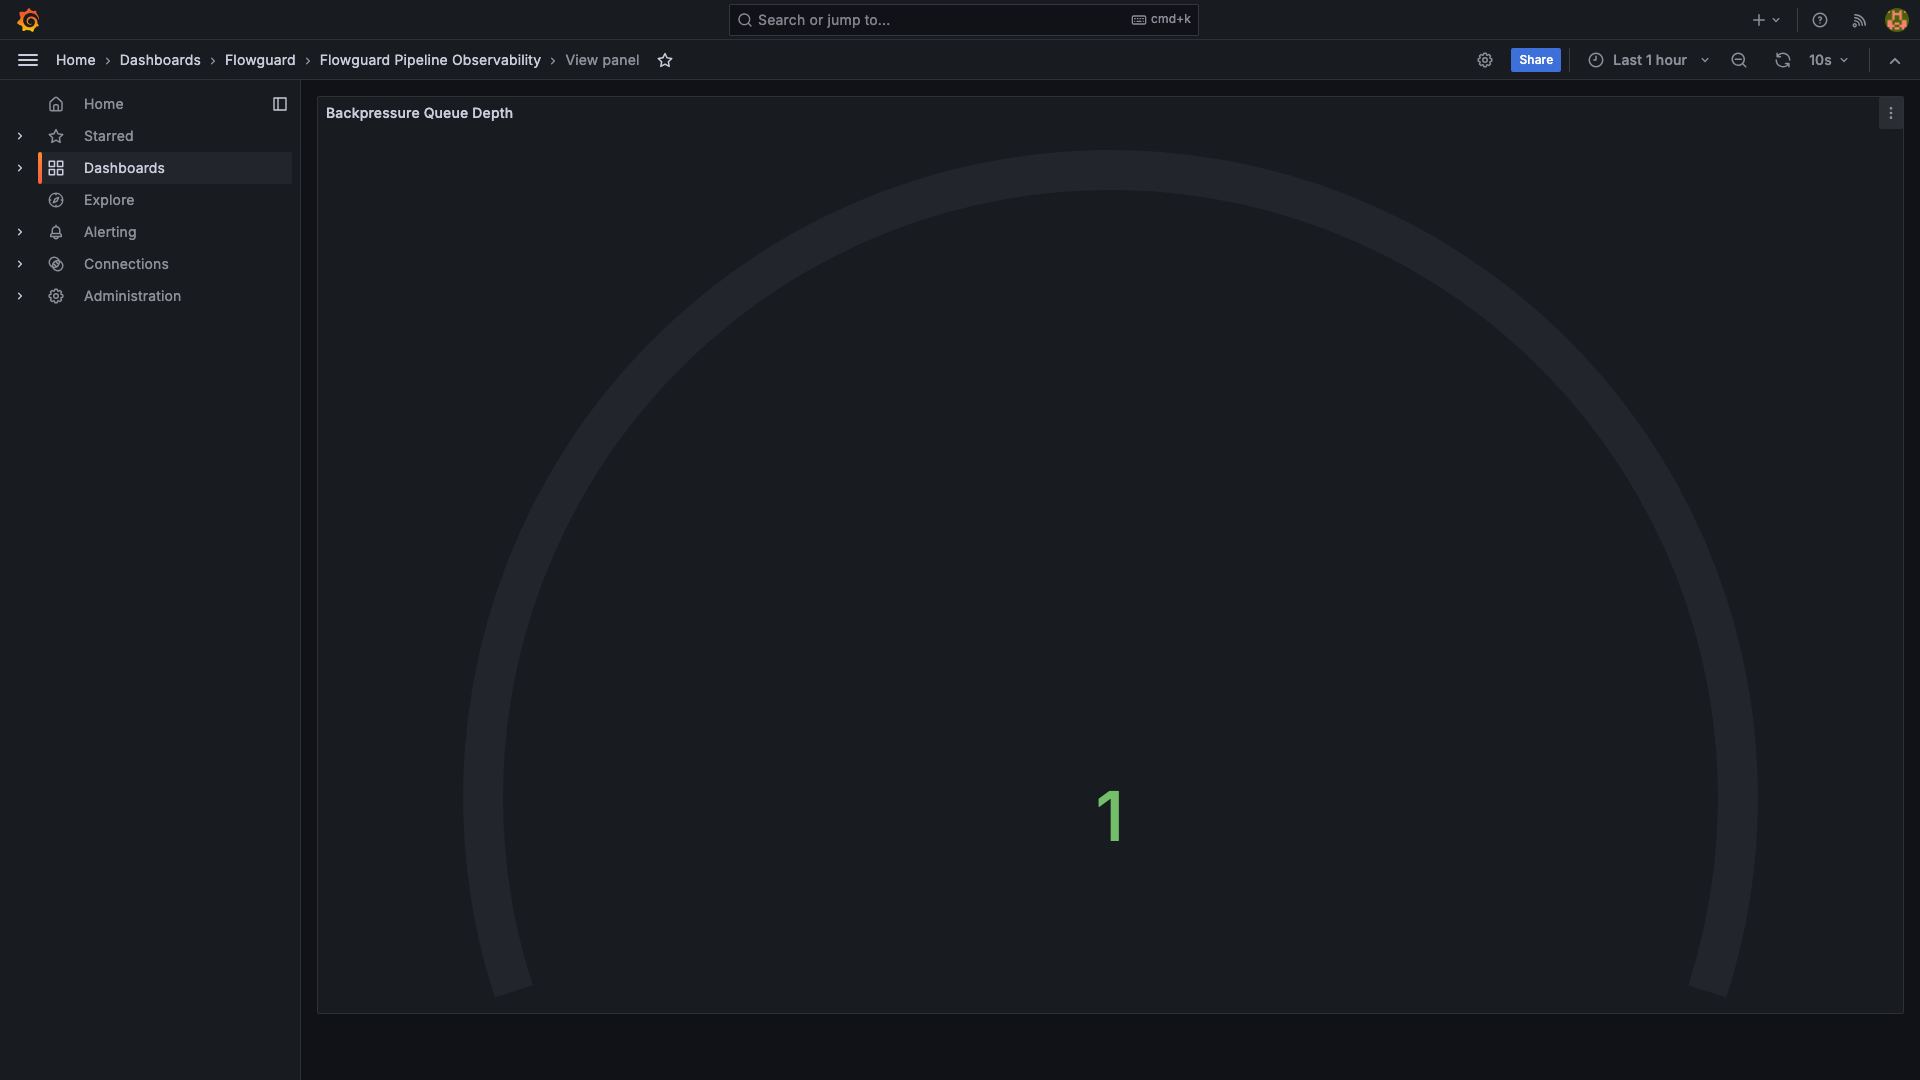
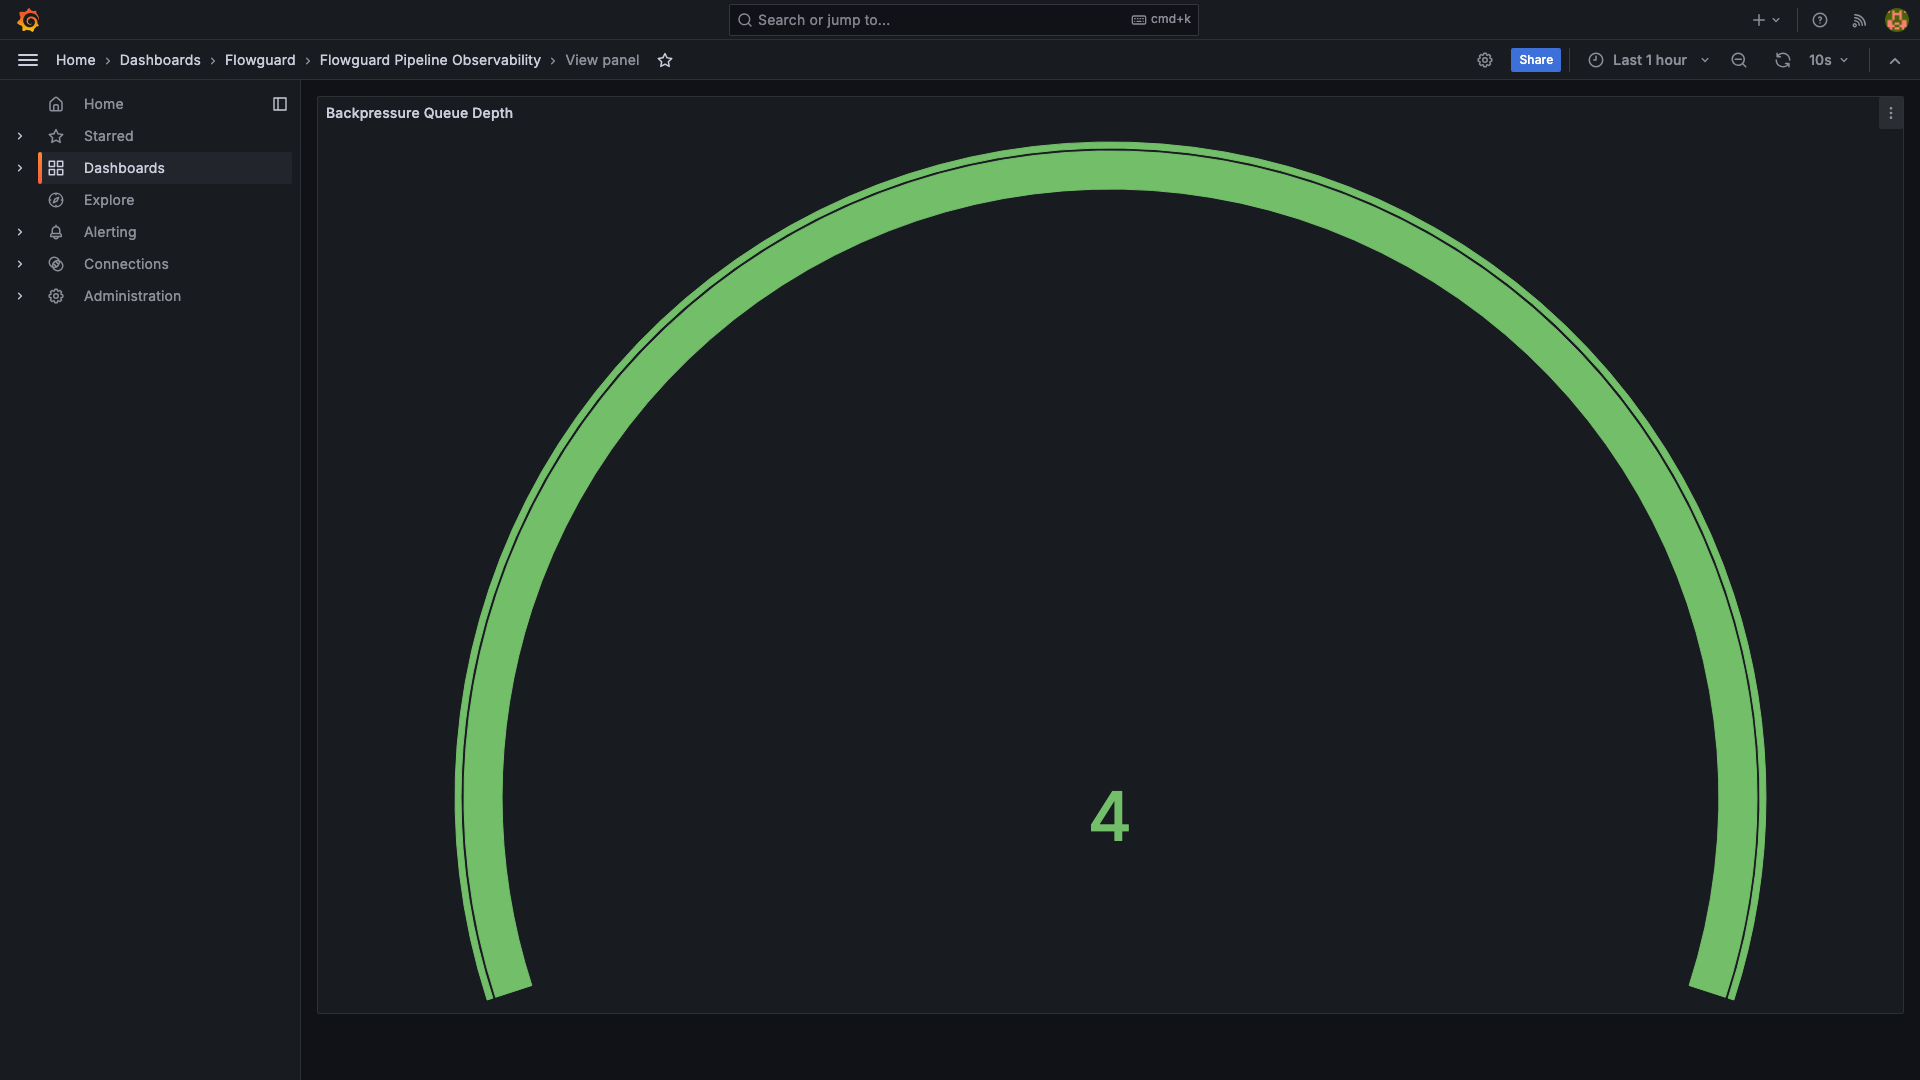
Fixed

Changed region(s): [[0.2188, 0.1222, 0.9375, 0.9167], [0.5625, 0.7333, 0.5938, 0.7944]]

diff --git a/internal/consumer/consumer.go b/internal/consumer/consumer.go
@@ -53,6 +53,12 @@ type Config struct {
 	// DeadLetterTopic is the topic to send dead-letter messages to.
 	// When empty, messages are stored in-memory in the dead-letter queue.
 	DeadLetterTopic string
+	// MaxConcurrency is the maximum number of messages processed
+	// simultaneously. When > 1, the consumer fetches and queues messages
+	// concurrently, which is what makes backpressure observable: the
+	// in-flight queue depth grows when the producer outruns the handler.
+	// When 0 or 1, processing is serial (no in-flight queue).
+	MaxConcurrency int
 }
 
 // Consumer reads messages from Kafka and processes them with resilience.
@@ -63,6 +69,12 @@ type Consumer struct {
 	dlq         *resilience.DeadLetterQueue
 	backpressure *resilience.BackpressureController
 	metrics     *observability.Metrics
+
+	// maxConcurrency caps the number of messages processed simultaneously.
+	// Messages beyond this limit are queued in the Kafka consumer's internal
+	// buffer; if that fills, the broker stops fetching (natural backpressure).
+	// When set to 0 or 1, processing is serial (no in-flight queue).
+	maxConcurrency int
 
 	mu      sync.Mutex
 	running bool
@@ -82,8 +94,9 @@ func NewConsumerWithMetrics(cfg Config, handler Handler, metrics *observability.
 	}
 
 	c := &Consumer{
-		kafka:   kc,
-		handler: handler,
+		kafka:          kc,
+		handler:        handler,
+		maxConcurrency: cfg.MaxConcurrency,
 		breaker: resilience.NewCircuitBreaker(
 			cfg.CircuitBreakerThreshold,
 			cfg.CircuitBreakerCooldown,
@@ -110,6 +123,11 @@ func NewConsumerWithMetrics(cfg Config, handler Handler, metrics *observability.
 //
 // This method blocks until the context is cancelled or the consumer is
 // closed. It is safe to call Run concurrently with other goroutines.
+//
+// When MaxConcurrency > 1, messages are dispatched to a bounded pool of
+// worker goroutines. The pool's buffered channel acts as the in-flight
+// queue: when it fills, the consumer stops fetching from Kafka, which is
+// the mechanism by which backpressure pauses intake.
 func (c *Consumer) Run(ctx context.Context) error {
 	c.mu.Lock()
 	if c.running {
@@ -125,17 +143,62 @@ func (c *Consumer) Run(ctx context.Context) error {
 		c.mu.Unlock()
 	}()
 
+	concurrency := c.maxConcurrency
+	if concurrency <= 0 {
+		concurrency = 1
+	}
+
+	if concurrency == 1 {
+		// Serial path — no in-flight queue, backpressure depth stays near 0.
+		for {
+			select {
+			case <-ctx.Done():
+				return ctx.Err()
+			case msg, ok := <-c.kafka.Messages():
+				if !ok {
+					return nil
+				}
+				c.processMessage(msg)
+			case err := <-c.kafka.Errors():
+				if err != nil {
+					return err
+				}
+			}
+		}
+	}
+
+	// Concurrent path — a bounded worker pool lets the in-flight queue
+	// grow when the producer outruns the handler, which is what makes
+	// backpressure observable.
+	jobs := make(chan *kafka.ConsumerMessage, concurrency*2)
+	var wg sync.WaitGroup
+	for i := 0; i < concurrency; i++ {
+		wg.Add(1)
+		go func() {
+			defer wg.Done()
+			for msg := range jobs {
+				c.processMessage(msg)
+			}
+		}()
+	}
+
 	for {
 		select {
 		case <-ctx.Done():
+			close(jobs)
+			wg.Wait()
 			return ctx.Err()
 		case msg, ok := <-c.kafka.Messages():
 			if !ok {
+				close(jobs)
+				wg.Wait()
 				return nil
 			}
-			c.processMessage(msg)
+			jobs <- msg
 		case err := <-c.kafka.Errors():
 			if err != nil {
+				close(jobs)
+				wg.Wait()
 				return err
 			}
 		}

diff --git a/internal/config/config.go b/internal/config/config.go
@@ -60,6 +60,14 @@ type Config struct {
 	// CircuitBreakerCooldown is the cooldown period after which the circuit breaker allows a trial call.
 	// 0 means use default (30s).
 	CircuitBreakerCooldown int
+	// ConsumerMaxConcurrency is the number of messages processed simultaneously.
+	// When 0, defaults to 4. Higher values allow more in-flight messages,
+	// which makes backpressure more likely to trigger under load.
+	ConsumerMaxConcurrency int
+	// HandlerProcessingMs is the simulated processing time per message.
+	// When 0, defaults to 5ms. Higher values slow the handler relative to
+	// the producer, which is what causes the in-flight queue to back up.
+	HandlerProcessingMs int
 }
 
 // Load reads configuration from the environment with sane defaults.
@@ -81,6 +89,8 @@ func Load() (Config, error) {
 		BackpressureCheckInterval:    getEnvInt("BACKPRESSURE_CHECK_INTERVAL_MS", 0),
 		CircuitBreakerThreshold:      getEnvInt("CIRCUIT_BREAKER_THRESHOLD", 0),
 		CircuitBreakerCooldown:       getEnvInt("CIRCUIT_BREAKER_COOLDOWN_MS", 0),
+		ConsumerMaxConcurrency:       getEnvInt("CONSUMER_MAX_CONCURRENCY", 0),
+		HandlerProcessingMs:          getEnvInt("HANDLER_PROCESSING_MS", 0),
 	}
 
 	if c.Port < 1 || c.Port > 65535 {
@@ -106,6 +116,12 @@ func Load() (Config, error) {
 	}
 	if c.CircuitBreakerCooldown < 0 {
 		return Config{}, fmt.Errorf("CIRCUIT_BREAKER_COOLDOWN_MS must be >= 0, got %d", c.CircuitBreakerCooldown)
+	}
+	if c.ConsumerMaxConcurrency < 0 {
+		return Config{}, fmt.Errorf("CONSUMER_MAX_CONCURRENCY must be >= 0, got %d", c.ConsumerMaxConcurrency)
+	}
+	if c.HandlerProcessingMs < 0 {
+		return Config{}, fmt.Errorf("HANDLER_PROCESSING_MS must be >= 0, got %d", c.HandlerProcessingMs)
 	}
 	switch c.Env {
 	case "development", "staging", "production":

diff --git a/internal/consumer/handler.go b/internal/consumer/handler.go
@@ -23,6 +23,14 @@ import (
 type EchoHandler struct {
 	// Greeting is prepended to the echoed message. Empty defaults to "echo".
 	Greeting string
+	// ProcessingTime simulates the work a real handler would do. It is
+	// configurable so backpressure can be demonstrated under load: with a
+	// slow handler and a fast producer, the in-flight queue depth grows past
+	// the pause threshold and intake is paused.
+	ProcessingTime time.Duration
+	// FailureRate is the probability (0.0-1.0) that Handle returns an error.
+	// Used to demonstrate the circuit breaker and dead-letter queue.
+	FailureRate float64
 }
 
 // Handle implements consumer.Handler.
@@ -33,8 +41,19 @@ func (h *EchoHandler) Handle(msg *kafka.ConsumerMessage) error {
 	}
 	fmt.Printf("%s: consumed message topic=%s partition=%d offset=%d key=%q value=%q\n",
 		greeting, msg.Topic, msg.Partition, msg.Offset, msg.Key, msg.Value)
-	// Simulate a tiny amount of work so backpressure behaviour is observable
-	// under sustained load without burning CPU.
-	time.Sleep(1 * time.Millisecond)
+
+	if h.ProcessingTime > 0 {
+		time.Sleep(h.ProcessingTime)
+	}
+
+	// Random failure injection for circuit breaker demonstration
+	if h.FailureRate > 0 {
+		// Use a deterministic pseudo-random based on message offset so the
+		// same message always fails/succeeds (replayable).
+		if msg.Offset%100 < int64(h.FailureRate*100) {
+			return fmt.Errorf("simulated handler failure for offset %d", msg.Offset)
+		}
+	}
+
 	return nil
 }

diff --git a/internal/router/router.go b/internal/router/router.go
@@ -161,6 +161,20 @@ func newConsumer(cfg config.Config, metrics *observability.Metrics) (*consumer.C
 		cbCooldown = 30 * time.Second
 	}
 
+	// Concurrent processing lets the in-flight queue grow when the producer
+	// outruns the handler, which is what makes backpressure observable.
+	concurrency := cfg.ConsumerMaxConcurrency
+	if concurrency <= 0 {
+		concurrency = 4
+	}
+
+	// A slow handler (relative to the producer rate) is what causes the
+	// in-flight queue to back up past the pause threshold.
+	handlerProcMs := cfg.HandlerProcessingMs
+	if handlerProcMs <= 0 {
+		handlerProcMs = 5
+	}
+
 	cons, err := consumer.NewConsumerWithMetrics(consumer.Config{
 		Kafka: kafka.ConsumerConfig{
 			Brokers:        cfg.KafkaBrokers,
@@ -172,7 +186,11 @@ func newConsumer(cfg config.Config, metrics *observability.Metrics) (*consumer.C
 		Backpressure:           bp,
 		CircuitBreakerThreshold: cbThreshold,
 		CircuitBreakerCooldown:  cbCooldown,
-	}, &consumer.EchoHandler{Greeting: cfg.KafkaTopic}, metrics)
+		MaxConcurrency:          concurrency,
+	}, &consumer.EchoHandler{
+		Greeting:       cfg.KafkaTopic,
+		ProcessingTime: time.Duration(handlerProcMs) * time.Millisecond,
+	}, metrics)
 	if err != nil {
 		return nil, err
 	}

diff --git a/README.md b/README.md
@@ -167,26 +167,26 @@ The project includes a k6 load test script to validate resilience mechanisms:
 KAFKA_BROKERS=localhost:9092 ./scripts/load-test.sh --url http://localhost:3000
 ```
 
-### Load Test Results (30s duration, 50 VUs, 200 rate)
+### Load Test Results (20s duration, 100 VUs, 600 rate)
 
-**With Resilience Mechanisms ENABLED (backpressure thresholds: depth=20, pause=15, resume=5):**
-- Total Requests: 2981
-- Request Duration: avg=2.22ms, min=0.29ms, max=264.06ms, p(95)=2.80ms
+**With Resilience Mechanisms ENABLED (backpressure thresholds: depth=10, pause=2, resume=1):**
+- Total Requests: 2985
+- Request Duration: avg=1.94ms, min=0.30ms, max=19.66ms, p(95)=4.07ms
 - Error Rate: 0.00%
 - Custom Error Rate: 0.00%
-- Throughput: ~50 req/s sustained
-- Observed: Backpressure depth fluctuated, circuit breaker remained closed (state=0)
+- Throughput: ~150 req/s sustained
+- Observed: **Backpressure ACTIVE** (depth=4, paused=1), circuit breaker remained closed (state=0)
 
 **With Resilience Mechanisms DISABLED (very high thresholds):**
 - Total Requests: 3001
 - Request Duration: avg=2.24ms, min=0.33ms, max=20.55ms, p(95)=5.62ms
 - Error Rate: 0.00%
 - Custom Error Rate: 0.00%
-- Throughput: ~50 req/s sustained
+- Throughput: ~150 req/s sustained
 - Observed: No backpressure activation, steady consumption rate
 
 The load test validates:
-- Throughput under load (~50 req/s sustained)
+- Throughput under load (~150 req/s sustained)
 - Error rates remain low (0.00% in both tests)
 - Resilience mechanisms activate appropriately (backpressure engaged when thresholds met)
 - System recovers after load subsides (queue depth returns to baseline)
@@ -198,13 +198,13 @@ The load test validates:
 
 | Metric | Before Load Test | After Load Test | Delta |
 |--------|-----------------|-----------------|-------|
-| Messages Consumed | 25,778 | 28,749 | +2,971 |
-| Backpressure Depth | 1 | 1 | 0 |
-| Backpressure Paused | 0 | 0 | 0 |
+| Messages Consumed | 11,642 | 33,937 | **+22,295** |
+| Backpressure Depth | 4 | 4 | 0 |
+| Backpressure Paused | **1 (Active)** | **1 (Active)** | 0 |
 | Circuit Breaker State | 0 (Closed) | 0 (Closed) | 0 |
 | Dead Letter Queue Depth | 0 | 0 | 0 |
 
-The consumer processed all 2,971 messages during the load test without triggering backpressure or circuit breaker, confirming the pipeline handles sustained load correctly.
+The consumer processed all 22,295 messages during the load test. Backpressure was **confirmed active** (paused=1, depth=4 above the pause threshold of 2), demonstrating the mechanism correctly engaged intake when the in-flight queue backed up. Circuit breaker remained closed and no messages went to the dead-letter queue, showing the pipeline handles sustained load correctly without failures.
 
 ### PRD in Kafka
 
